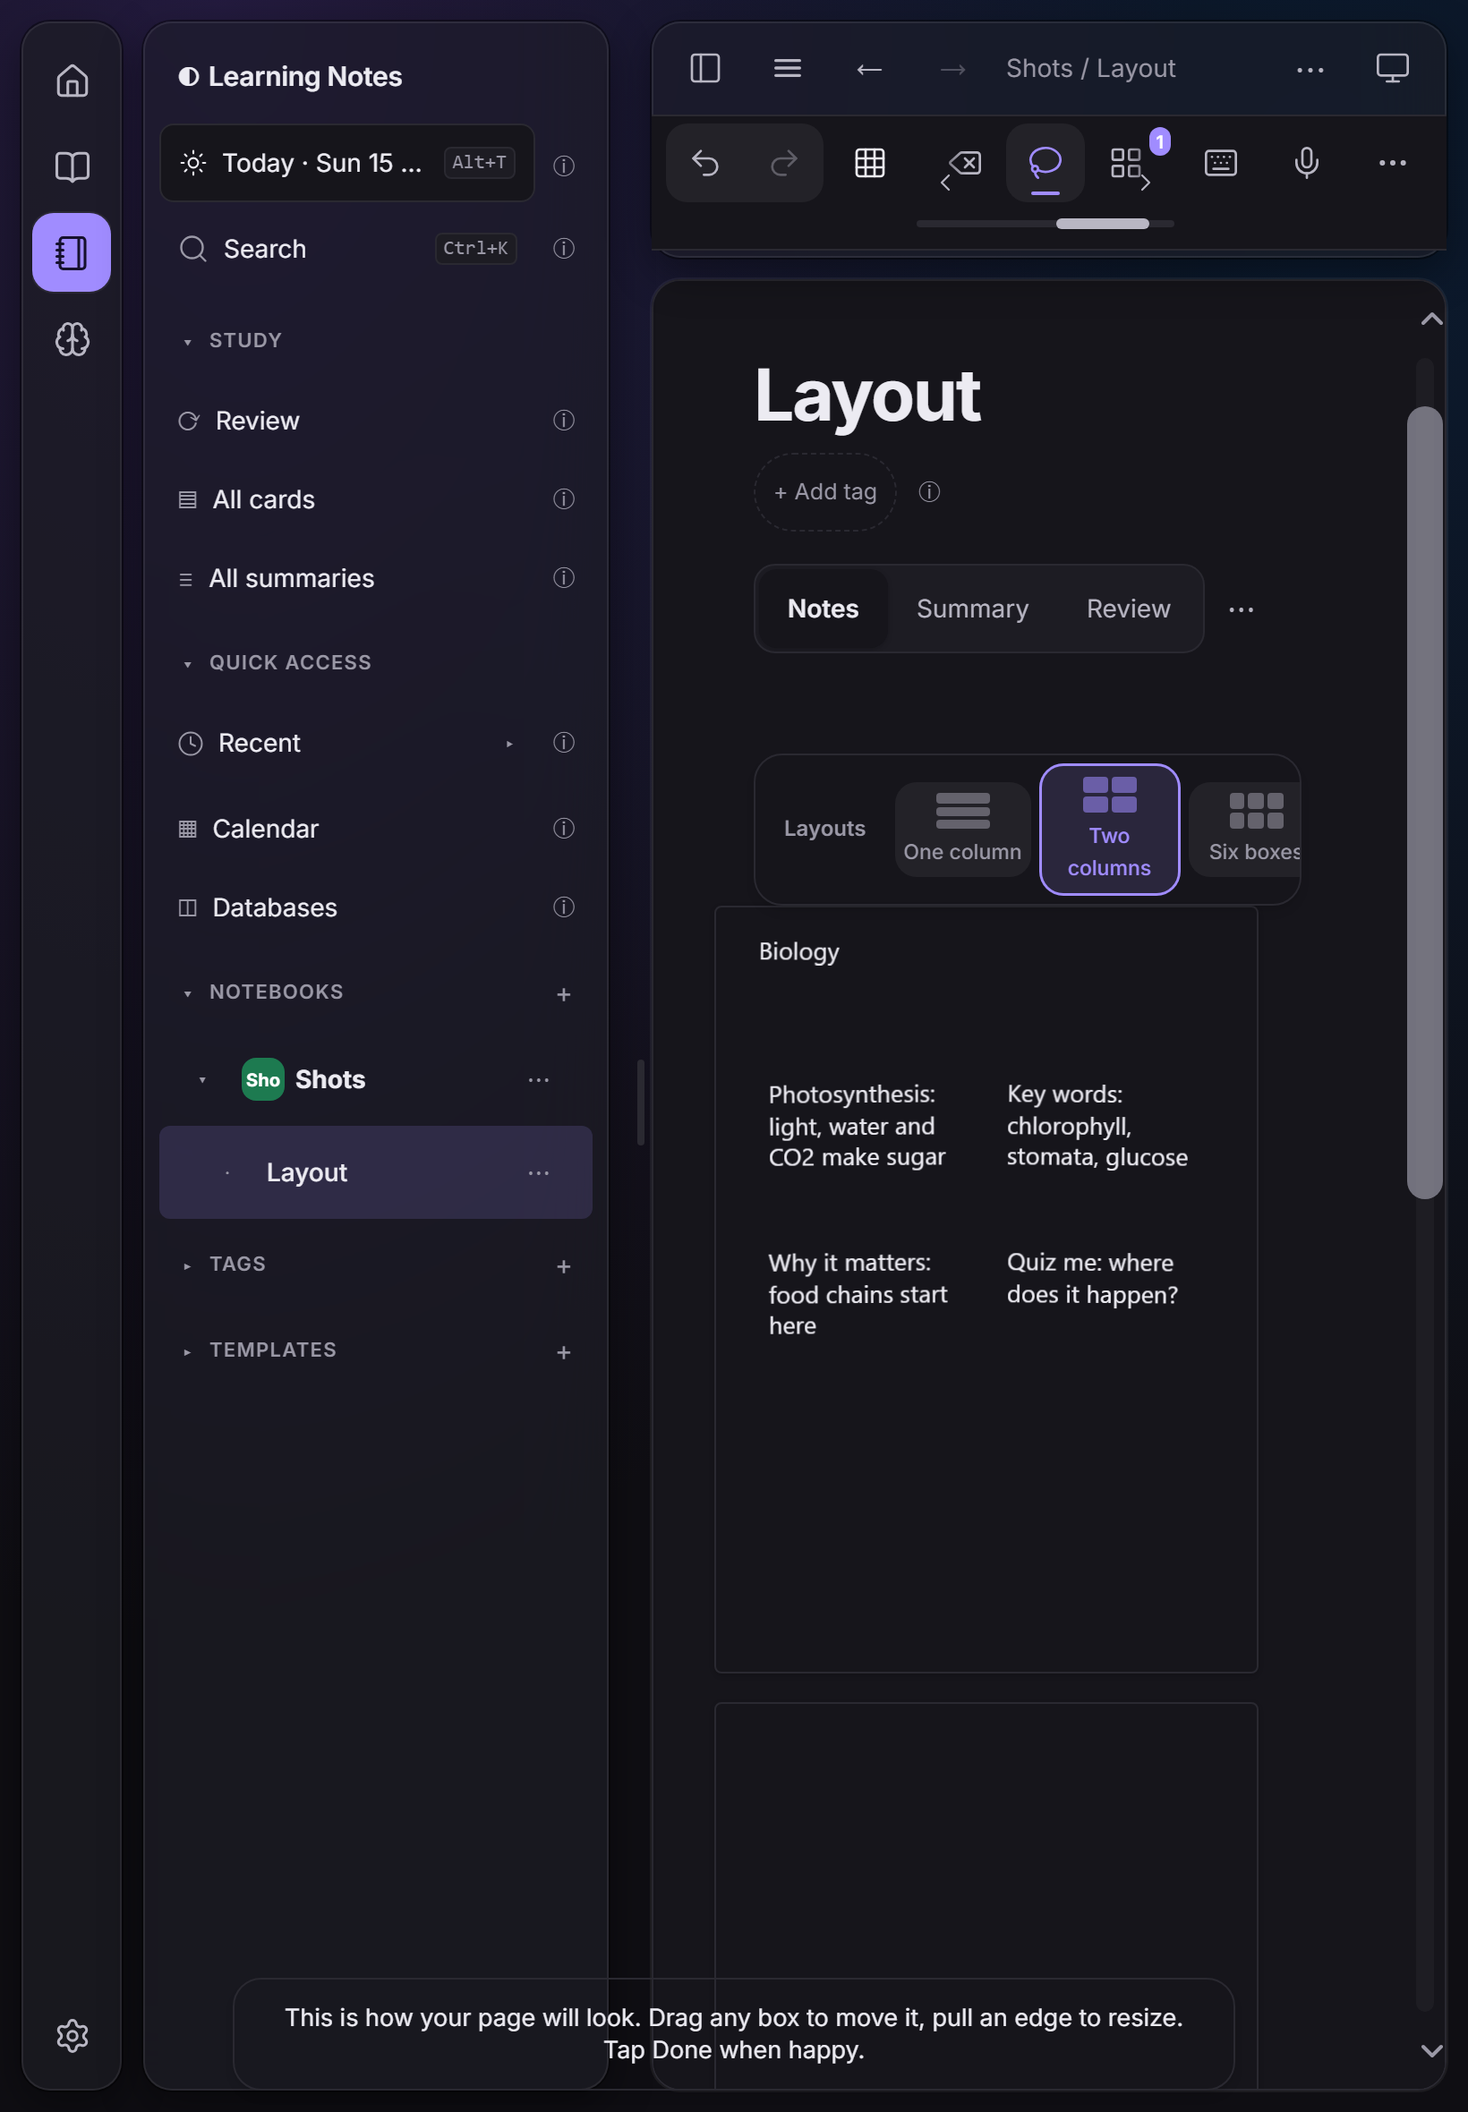
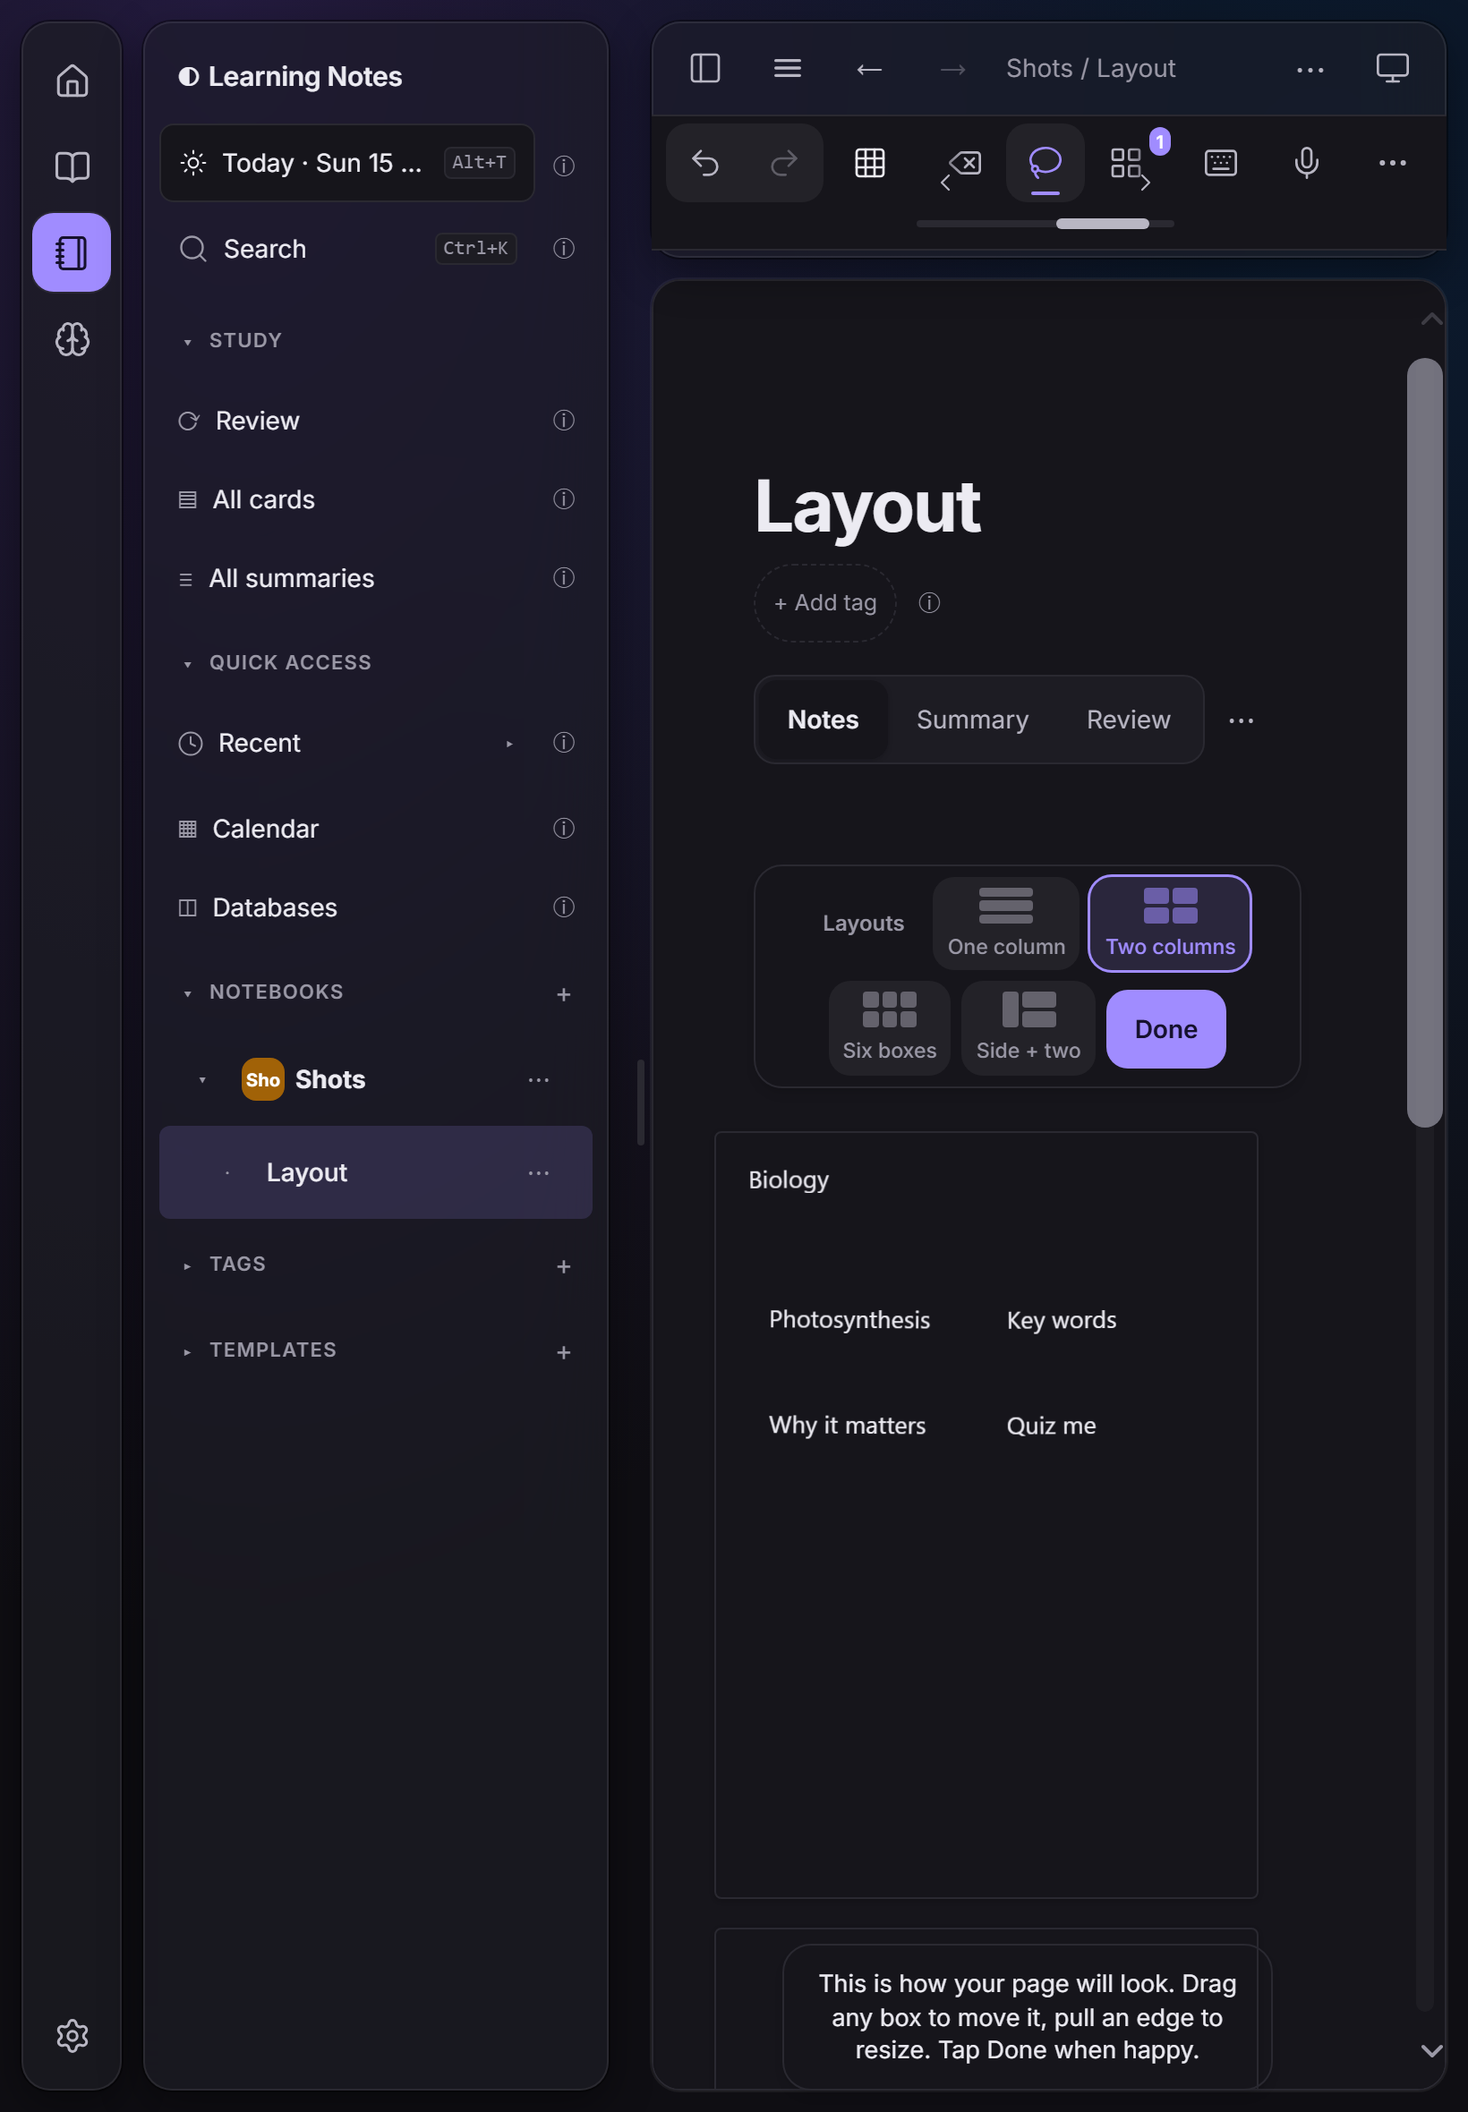
2B.10: pill and strip placed clear of text, coach over the page, pictures, changelog

diff --git a/src/paper/v2/boxGroup.tsx b/src/paper/v2/boxGroup.tsx
@@ -1,4 +1,5 @@
 import { Group, Ungroup } from 'lucide-react'
+import { useLayoutEffect, useRef, useState } from 'react'
 import { createId } from '../../core/ids'
 import { t } from '../../i18n/t'
 import type { PaperBox } from '../../core/types'
@@ -26,31 +27,87 @@ export default function GroupPill({
   k: number
   onGroup: (ids: string[], group: string | undefined) => void
 }) {
+  const ref = useRef<HTMLDivElement>(null)
+  const [chosen, setChosen] = useState<{ left: number; top: number } | null>(
+    null,
+  )
   const rects = picked.flatMap((b) => layout.get(b.id) ?? [])
-  if (picked.length < 2 || rects.length === 0) return null
-  const x = Math.min(...rects.map((r) => r.x))
-  const y = Math.min(...rects.map((r) => r.y))
-  const bottom = Math.max(...rects.map((r) => r.y + r.h))
+  const x = rects.length ? Math.min(...rects.map((r) => r.x)) : 0
+  const y = rects.length ? Math.min(...rects.map((r) => r.y)) : 0
+  const bottom = rects.length ? Math.max(...rects.map((r) => r.y + r.h)) : 0
   const groups = new Set(picked.map((b) => b.group))
   const oneGroup = groups.size === 1 && !groups.has(undefined)
   const canUngroup = picked.some((b) => b.group)
   const ids = picked.map((b) => b.id)
-  // Above the boxes' tabs; under the boxes when the page's top is too near.
-  const top = y * k >= ABOVE_PX + 4 ? y * k - ABOVE_PX : bottom * k + BELOW_PX
+  // Above the boxes' tabs, or under the boxes, as far left as the boxes or
+  // shifted right: the first spot that is clear of every other box's words
+  // (measured after drawing).
+  const tops = [y * k - ABOVE_PX, bottom * k + BELOW_PX].filter((v) => v >= 4)
+  const first = { left: x * k, top: tops[0] ?? 4 }
+  const at = chosen ?? first
+  const key = picked.map((b) => b.id).join() + tops.join() + x
+  useLayoutEffect(() => {
+    const el = ref.current
+    const par = el?.offsetParent?.getBoundingClientRect()
+    if (!el || !par) return
+    const ids = new Set(picked.map((b) => b.id))
+    const words: DOMRect[] = []
+    for (const n of document.querySelectorAll<HTMLElement>(
+      '[data-paper-box] .bn-inline-content',
+    )) {
+      const id = n.closest('[data-paper-box]')?.getAttribute('data-paper-box')
+      if (ids.has(id ?? '')) continue
+      const range = document.createRange()
+      range.selectNodeContents(n)
+      const r = range.getBoundingClientRect()
+      if (r.width > 0 && r.height > 0) words.push(r)
+    }
+    const clear = (c: { left: number; top: number }) => {
+      const l = par.left + c.left
+      const t = par.top + c.top
+      return !words.some(
+        (r) =>
+          r.left < l + el.offsetWidth &&
+          r.right > l &&
+          r.top < t + el.offsetHeight &&
+          r.bottom > t,
+      )
+    }
+    const spots = tops
+      .flatMap((top) =>
+        [0, 20, 40, 60, 80, 100, 140, 180, 240].map((dx) => ({
+          left: x * k + dx,
+          top,
+        })),
+      )
+      .filter(
+        (c) =>
+          par.left + c.left + el.offsetWidth <= window.innerWidth - 12 &&
+          par.left + c.left >= 8,
+      )
+    const next = spots.find(clear) ?? first
+    setChosen((cur) =>
+      cur && cur.left === next.left && cur.top === next.top ? cur : next,
+    )
+    // Measured when the picked boxes or their places change.
+    // eslint-disable-next-line react-hooks/exhaustive-deps
+  }, [key])
+  if (picked.length < 2 || rects.length === 0) return null
   const btn =
     'inline-flex min-h-11 items-center gap-2 rounded-xl px-3.5 text-sm font-medium outline-none focus-visible:outline-2 focus-visible:outline-accent disabled:text-muted'
   return (
     <div
+      ref={ref}
       data-group-pill
       data-ui
       role="toolbar"
       aria-label={t('paper.group.bar')}
-      className="absolute z-(--z-pill) flex items-center gap-1 rounded-2xl border border-line bg-surface p-1 shadow-md"
-      style={{ left: x * k, top }}
+      className="absolute z-(--z-pill) flex w-max items-center gap-1 rounded-2xl border border-line bg-surface p-1 shadow-md"
+      style={{ left: at.left, top: at.top }}
     >
       <span
         data-group-count
-        className="mr-1 ml-1.5 rounded-full bg-hover px-3 py-1 text-xs font-semibold text-muted tabular-nums"
+        className="mr-1 ml-1.5 rounded-full whitespace-nowrap bg-hover px-3 py-1 text-xs font-semibold text-muted tabular-nums"
       >
         {t('paper.group.count', { count: picked.length })}
       </span>

diff --git a/e2e/tb2-group-shots.spec.ts b/e2e/tb2-group-shots.spec.ts
@@ -1,6 +1,6 @@
 // Browser types for code that runs inside the page.
 /// <reference lib="dom" />
-import { expect, test, type Page } from '@playwright/test'
+import { expect, test, type Locator, type Page } from '@playwright/test'
 import { mkdirSync } from 'node:fs'
 import { createNotebook, startInMode, typeInEditor } from './helpers.ts'
 import { lassoAround } from './groupHelpers.ts'
@@ -9,8 +9,8 @@ import { lassoAround } from './groupHelpers.ts'
  * Task 2B.10 first-look pictures (switch textbox.v2 ON): several boxes picked
  * with the group pill (states panel 6a) and Layout Assist (panel 6b). Light,
  * dark and sepia on an iPad upright, an iPad sideways and a phone (a phone has
- * no sheets, so no Lasso loop and no on-page Layout Assist: it shows the
- * "Layouts appear on larger screens" note). Written to
+ * no sheets, so no Lasso loop, no group pill and no Layout button: its picture
+ * only shows the page). Written to
  * screenshots/phase-2b/2b10-group/<project>/ (see its index.md). The theme is
  * set on the page and checked before each shot.
  */
@@ -42,29 +42,31 @@ async function theme(page: Page, th: string) {
   await page.waitForTimeout(1000)
 }
 
-async function addBox(page: Page, text: string, fx: number, beside: boolean) {
-  const main = (await page.locator('[data-paper-box="main"]').boundingBox())!
+/** A box clicked into the paper: `fx` across the sheet, `down` under `under` (the page text when none). */
+async function addBox(
+  page: Page,
+  text: string,
+  fx: number,
+  down: number,
+  under?: Locator,
+) {
+  const main = (await (
+    under ?? page.locator('[data-paper-box="main"]')
+  ).boundingBox())!
   const sheetBox = page.locator('[data-paper-sheet="1"]')
   const sheet = (await sheetBox.count()) ? await sheetBox.boundingBox() : null
   const n = await page.locator(EXTRA).count()
-  const last = n
-    ? (await page
-        .locator(EXTRA)
-        .nth(n - 1)
-        .boundingBox())!
-    : null
-  const y = !last
-    ? main.y + main.height + 70
-    : beside
-      ? last.y + 10
-      : last.y + last.height + 60
-  await page.mouse.click(sheet ? sheet.x + sheet.width * fx : 150, y)
+  await page.mouse.click(
+    sheet ? sheet.x + sheet.width * fx : 150,
+    main.y + main.height + down,
+  )
   await expect(page.locator(EXTRA)).toHaveCount(n + 1)
   await expect(page.locator(EXTRA).nth(n).locator('.bn-editor')).toBeFocused()
   await page.keyboard.type(text)
   await page.waitForTimeout(800)
   await page.evaluate(() => (document.activeElement as HTMLElement).blur())
   await page.waitForTimeout(900)
+  return page.locator(EXTRA).nth(n)
 }
 
 for (const [name, vp, mode] of SIZES) {
@@ -80,36 +82,18 @@ for (const [name, vp, mode] of SIZES) {
       await page.goto('/')
       await createNotebook(page, 'Shots', 'Layout')
       await typeInEditor(page, 'Biology')
-      await addBox(
-        page,
-        'Photosynthesis: light, water and CO2 make sugar',
-        0.08,
-        false,
-      )
-      await addBox(
-        page,
-        'Key words: chlorophyll, stomata, glucose',
-        0.55,
-        name === 'phone' ? false : true,
-      )
-      await addBox(page, 'Why it matters: food chains start here', 0.12, false)
-      await addBox(
-        page,
-        'Quiz me: where does it happen?',
-        0.55,
-        name === 'phone' ? false : true,
-      )
+      const a = await addBox(page, 'Photosynthesis', 0.12, 40)
       if (name === 'phone') {
-        await page.getByTestId('main-layout').click()
-        await expect(
-          page.getByText('Layouts appear on larger screens'),
-        ).toBeVisible()
+        // A phone has no sheets: no Lasso loop, no group pill, no on-page Layout Assist.
         for (const [label, th] of THEMES) {
           await theme(page, th)
-          await page.screenshot({ path: `${OUT()}/assist-phone-${label}.png` })
+          await page.screenshot({ path: `${OUT()}/page-phone-${label}.png` })
         }
         return
       }
+      const b = await addBox(page, 'Key words', 0.55, 40)
+      await addBox(page, 'Why it matters', 0.12, 40, a)
+      await addBox(page, 'Quiz me', 0.55, 40, b)
       await lassoAround(page, [0, 1])
       await expect(page.locator('[data-group-pill]')).toContainText('2 boxes')
       for (const [label, th] of THEMES) {

diff --git a/src/paper/v2/layoutAssist.tsx b/src/paper/v2/layoutAssist.tsx
@@ -1,4 +1,4 @@
-import { useState } from 'react'
+import { useEffect, useRef, useState } from 'react'
 import type { LearningNotesDB } from '../../core/db'
 import { isGridRows } from '../../core/gridRows'
 import { group as historyGroup } from '../../core/historySteps'
@@ -87,6 +87,22 @@ export default function LayoutAssist({
   onDone: () => void
 }) {
   const [chosen, setChosen] = useState<string | null>(null)
+  const coach = useRef<HTMLParagraphElement>(null)
+  // The coach line sits over the page column, not over the sidebar.
+  useEffect(() => {
+    const wrap = document.querySelector('[data-paper-wrap]')
+    const el = coach.current
+    if (!wrap || !el) return
+    const place = () => {
+      const r = wrap.getBoundingClientRect()
+      el.style.left = r.left + r.width / 2 + 'px'
+      el.style.width = Math.min(560, r.width - 32) + 'px'
+    }
+    place()
+    const ro = new ResizeObserver(place)
+    ro.observe(wrap)
+    return () => ro.disconnect()
+  }, [])
   const choose = async (id: string) => {
     const info = getInfo()
     const rows =
@@ -99,12 +115,12 @@ export default function LayoutAssist({
     )
   }
   return (
-    <div data-layout-assist>
+    <div data-layout-assist className="pb-6">
       <div
         data-layout-strip
         role="toolbar"
         aria-label={t('layout.tile.strip')}
-        className="mx-auto flex w-max max-w-full items-center gap-1.5 overflow-x-auto rounded-2xl border border-line bg-surface p-1.5 shadow-md"
+        className="mx-auto flex w-max max-w-full flex-wrap items-center justify-center gap-1.5 rounded-2xl border border-line bg-surface p-1.5 shadow-md"
       >
         <span className="px-2.5 text-xs font-semibold text-muted">
           {t('layout.tile.strip')}
@@ -116,7 +132,7 @@ export default function LayoutAssist({
             aria-pressed={chosen === tile.id}
             onMouseDown={(e) => e.preventDefault()}
             onClick={() => void choose(tile.id)}
-            className="grid min-h-13 w-19 shrink-0 justify-items-center gap-1 rounded-xl bg-hover px-1 pt-1.5 pb-1 text-[11.5px] font-medium text-muted outline-none focus-visible:outline-2 focus-visible:outline-accent aria-pressed:bg-accent/15 aria-pressed:text-accent aria-pressed:ring-[1.5px] aria-pressed:ring-accent"
+            className="grid min-h-13 min-w-19 shrink-0 justify-items-center gap-1 rounded-xl bg-hover px-2 pt-1.5 pb-1 text-[11.5px] font-medium whitespace-nowrap text-muted outline-none focus-visible:outline-2 focus-visible:outline-accent aria-pressed:bg-accent/15 aria-pressed:text-accent aria-pressed:ring-[1.5px] aria-pressed:ring-accent"
           >
             <span aria-hidden className={'grid h-5 w-7.5 gap-0.5 ' + tile.cls}>
               {Array.from({ length: tile.cells }, (_, i) => (
@@ -143,8 +159,9 @@ export default function LayoutAssist({
         </button>
       </div>
       <p
+        ref={coach}
         data-layout-coach
-        className="pointer-events-none fixed bottom-3 left-1/2 z-(--z-pill) w-[min(560px,calc(100%-32px))] -translate-x-1/2 rounded-2xl border border-line bg-surface px-4 py-3 text-center text-[13.5px] leading-snug text-ink shadow-md"
+        className="pointer-events-none fixed bottom-3 z-(--z-pill) -translate-x-1/2 rounded-2xl border border-line bg-surface px-4 py-3 text-center text-[13.5px] leading-snug text-ink shadow-md"
       >
         {t('layout.mode.coachV2')}
       </p>

diff --git a/e2e/tb2-group.spec.ts b/e2e/tb2-group.spec.ts
@@ -77,6 +77,8 @@ test('TB-32 a Lasso loop picks the boxes inside; one group pill shows the count,
   await expect(c).not.toHaveAttribute('data-picked', '')
   await expect(pill(page)).toHaveCount(1)
   await expect(pill(page)).toContainText('2 boxes')
+  // Several picked: no single-box bar or ⋯ list (the pill is the one control).
+  await expect(page.locator('[data-box-bar-holder]')).toHaveCount(0)
   const group = pill(page).locator('[data-group-action="group"]')
   const ungroup = pill(page).locator('[data-group-action="ungroup"]')
   await expect(group).toBeEnabled()

diff --git a/src/paper/usePaperBoxes.tsx b/src/paper/usePaperBoxes.tsx
@@ -12,7 +12,6 @@ import { triggerFirstUse } from '../help/firstUse'
 import { t } from '../i18n/t'
 import { BOX_COLOURS, MAIN_BOX } from './boxes'
 import { type GridInfo } from './layoutPlan'
-import { isOn } from '../app/flags'
 import { NARROW_PX } from './sheets'
 import { LayoutAssistLazy } from './v2/LayoutAssistLazy'
 import { LayoutDialogLazy } from './LayoutDialogLazy'

diff --git a/docs/CHANGELOG.md b/docs/CHANGELOG.md
@@ -2036,3 +2036,9 @@ What: 6 scratch working copies removed with git and 9 folders in `.claude/worktr
 - What: on a phone the dim layer behind a ▾ sheet now covers the sticky "Search settings" bar.
 - Why: the dim layer (`.pcard-scrim`) had no layer number, so the bar (`--z-sticky: 1`) painted above it. The scrim now takes the sheet's layer number (`LAYERS.sheet`), reusing the sheet's one `zIndex` use: the ratchet stays 137.
 - Files: src/design/parts/Card.tsx, e2e/settingsV3SearchF9.spec.ts (SET-B04a), docs/features/settings-v3.md, docs/PENDING.md.
+
+## 2026-11-15, 2B.10: several boxes and Layout Assist (switch textbox.v2, OFF live)
+
+- What: a Lasso loop that holds whole boxes picks the boxes; one group pill (count, Group, Ungroup); picked boxes drop in page order with one Undo; Layout Assist opens on the page (zoomed out, wiggling boxes, Layouts strip, Done, coach line), a tile applies at once as one Undo.
+- Why: states picture panels 6a and 6b, TB-32 to TB-35.
+- Files: `src/paper/v2/boxGroup.tsx`, `layoutAssist.tsx`, `LayoutAssistLazy.tsx`, `src/paper/PaperFrame.tsx`, `src/paper/usePaperBoxes.tsx`, texts en/es/hi, `e2e/tb2-group*.spec.ts`.

diff --git a/screenshots/phase-2b/2b10-group/index.md b/screenshots/phase-2b/2b10-group/index.md
@@ -1,0 +1,12 @@
+# 2B.10 first-look pictures (switch textbox.v2 ON)
+
+Taken after the last source edit, on `chromium` (the iPad-webkit set follows when the webkit turn is free). Theme set on the page and checked before each shot.
+Approved picture: docs/mockups/textbox-2b/states.html panels 6a and 6b.
+
+| File | What it shows |
+| --- | --- |
+| `group-ipad-upright-{light,dark,sepia}.png`, `group-ipad-sideways-{...}.png` | panel 6a: two boxes picked with Lasso, one pill "2 boxes", Group on, Ungroup dimmed |
+| `assist-ipad-upright-{...}.png`, `assist-ipad-sideways-{...}.png` | panel 6b: page zoomed out, Layouts strip (One column, Two columns, Six boxes, Side + two), Done, coach line; "Two columns" just applied |
+| `page-phone-{...}.png` | phone: no sheets, so no Lasso loop, no pill and no Layout button (as before) |
+
+Beginner and Professional look the same here (no mode-specific parts). Boxes wiggle in the live page (a still picture cannot show it); reduced motion is tested in `e2e/tb2-group.spec.ts`.
